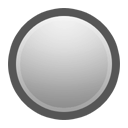
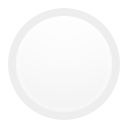
Swap 5-minute-light positions; fix single-hour-light calculation; make grey lights more transparent

diff --git a/c2k.py b/c2k.py
@@ -113,9 +113,9 @@ class Calculator:
 
                 # special condition for 5-minute lights
                 if row_num == 2:
-                    if col_num in [1, 5, 9]:
+                    if col_num in [3, 7, 11]:
                         y -= 50  # FIXME
-                    elif col_num in [3, 7, 11]:
+                    elif col_num in [1, 5, 9]:
                         y += 50  # FIXME
 
                 self.positions[row_num].append((x, y))
@@ -137,7 +137,7 @@ class Calculator:
         now = datetime.datetime.now()
         tick_values = {
             0: now.hour // 5,
-            1: now.hour % 4,
+            1: now.hour % 5,
             2: now.minute // 5,
             3: now.minute % 5,
             4: now.second % 2
